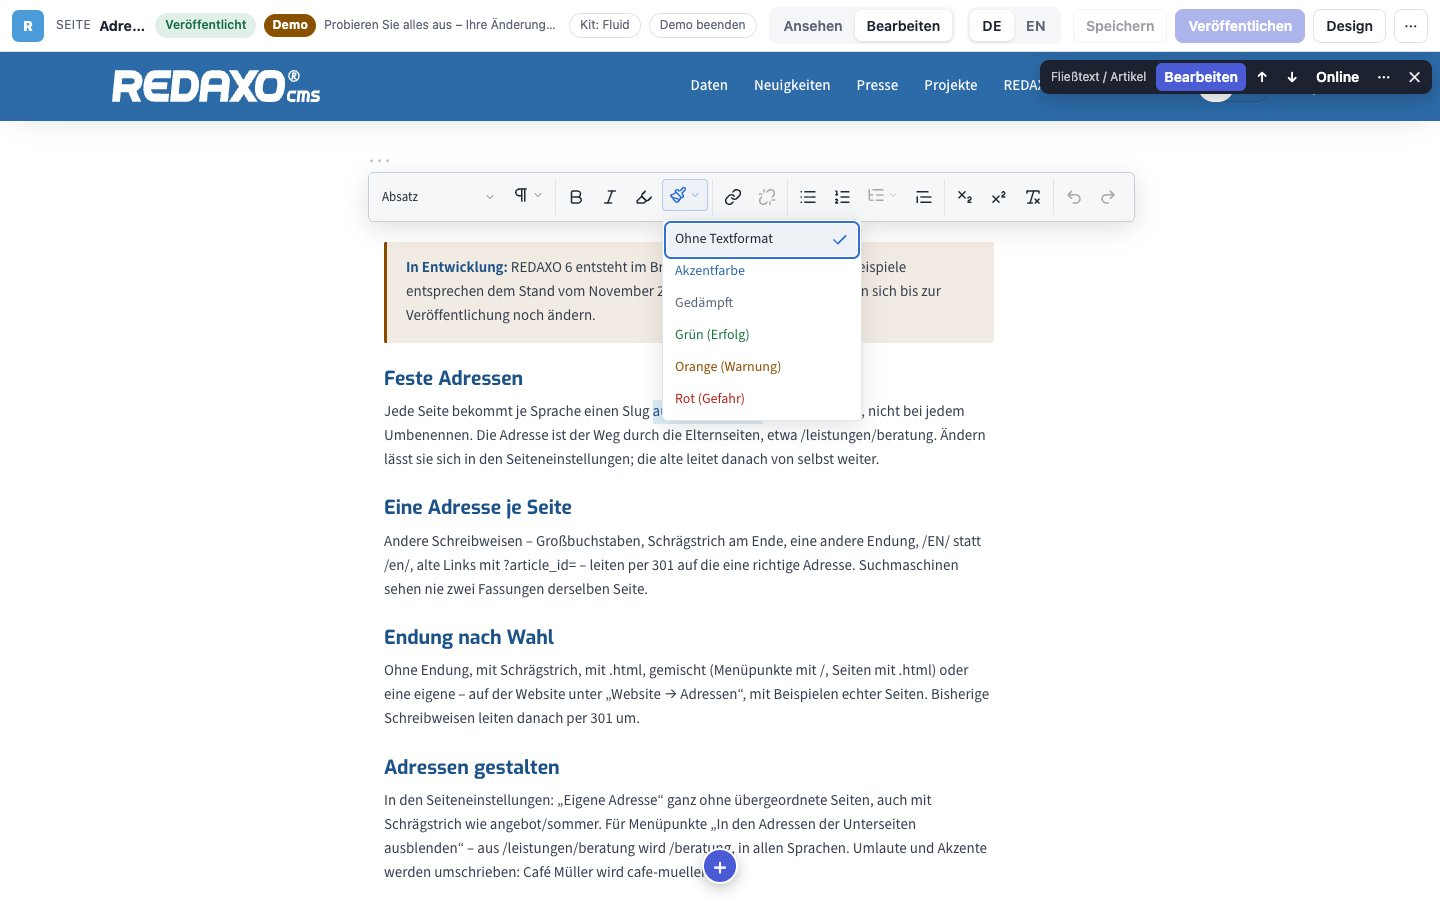
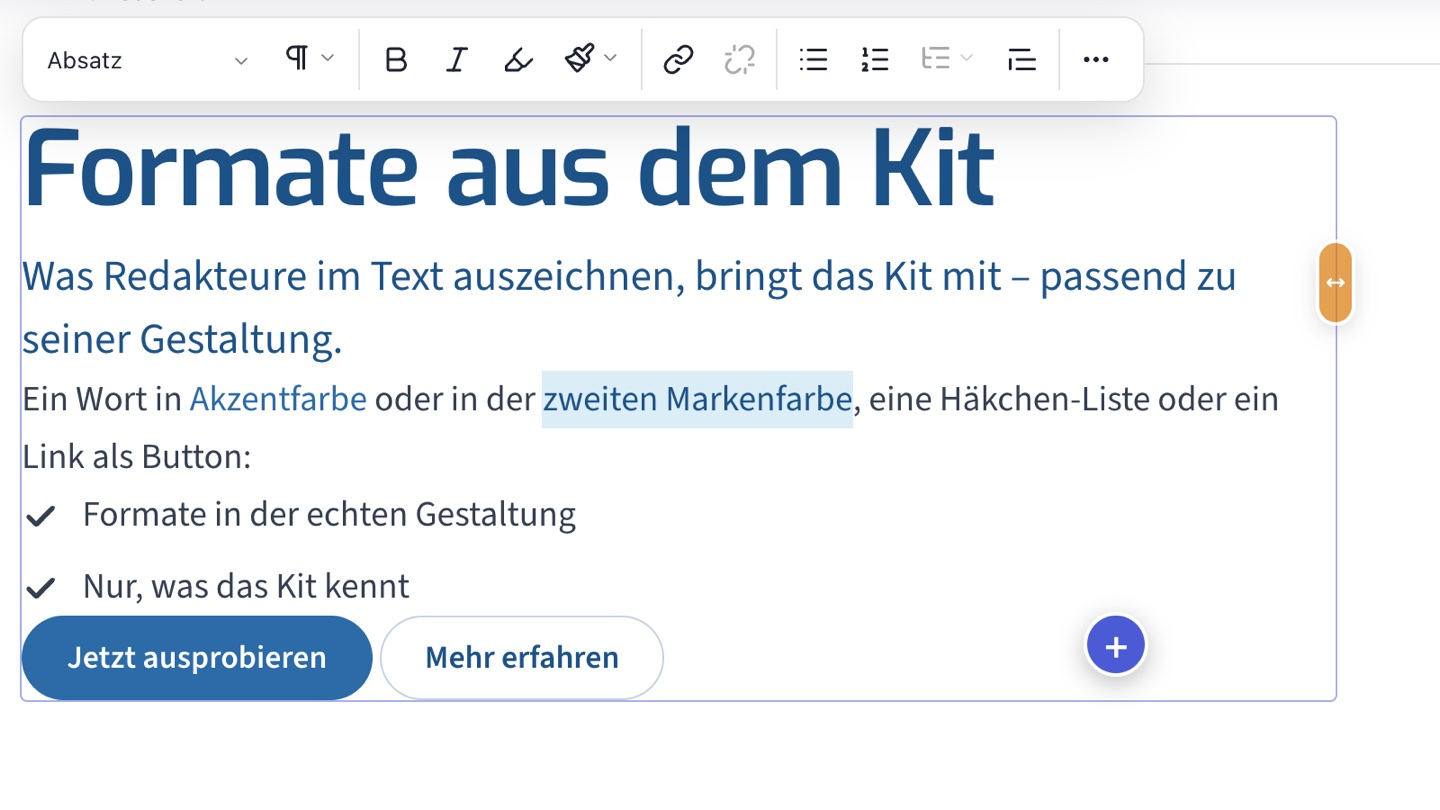
docs: README and demo post with current pictures of the text formats

diff --git a/kits/fluid/demo-redaxo6.php b/kits/fluid/demo-redaxo6.php
@@ -387,7 +387,21 @@ $code = [
             }
         }
         CODE,
+    'kitText' => <<<'CODE'
+        return [
+            'label' => 'Fluid (breakpointlos)',
+            // Textformate: Klasse => Bezeichnung (optional, sonst die des Eltern-Kits)
+            'text' => [
+                'paragraphs' => ['t-lead' => 'Hervorgehoben', 't-note' => 'Hinweis-Box'],
+                'headings' => ['h-display' => 'Groß (Blickfang)'],      // jede Überschrift
+                'colors' => ['c-accent' => 'Akzentfarbe', 'c-secondary' => 'Zweite Markenfarbe'],
+                'lists' => ['check' => ['label' => 'Häkchen-Liste', 'list' => 'ul']],
+                'links' => ['btn btn--primary' => 'Button'],
+            ],
+        ];
+        CODE,
     'tiptapProfile' => <<<'CODE'
+        use Klxm\Fluid\TextFormats;
         use Klxm\Tiptap\AsProfile;
         use Klxm\Tiptap\ProfileDefinition;
 
@@ -396,19 +410,15 @@ $code = [
         {
             public function config(): array
             {
-                return [
+                // Absatz-, Überschriften-, Farb-, Listen- und Linkformate aus dem Kit
+                return TextFormats::active()->profileConfig() + [
                     'toolbar' => [
                         ['heading', 'blockStyle'],
                         ['bold', 'italic', 'highlight', 'inlineStyle'],
                         ['link', 'unlink'],
                         ['bulletList', 'orderedList', 'listStyle', 'blockquote'],
                     ],
-                    'blockStyles' => [
-                        ['label' => 'Hervorgehoben', 'class' => 't-lead', 'element' => 'p'],
-                        ['label' => 'Hinweis-Box', 'class' => 't-note', 'element' => 'p'],
-                    ],
-                    'inlineStyles' => [['label' => 'Akzentfarbe', 'class' => 'c-accent']],
-                    'listStyles' => [['label' => 'Häkchen-Liste', 'class' => 'check', 'list' => 'ul']],
+                    'headings' => [2, 3, 4],
                 ];
             }
         }
@@ -2016,14 +2026,23 @@ vollständig: Module, Templates, Schema'],
                 ['type' => 'richtext', 'data' => ['variant' => 'article', 'eyebrow' => '', 'title' => '', 'intro' => '', 'measure' => 'normal', 'meta' => '', 'dropcap' => false, 'toc' => false, 'reveal' => 'off', 'scrollspy' => 'off',
                     'text' => '<p class="t-lead">Ein Editor für alles: fluid schreibt Texte jetzt mit <strong>TipTap</strong> – dem Editor, den REDAXO 6 auch im Backend, in YForm und in Modulen nutzt.</p><p>Bisher hatte fluid eine eigene Formatierungsleiste. Sie war gut, aber eben nur in fluid. Jetzt arbeitet überall derselbe Editor: wer ihn im Backend kennt, kennt ihn auf der Website – und umgekehrt. Alles, was TipTap kann, kann fluid ab sofort auch.</p>']],
                 ['type' => 'media_text', 'data' => ['variant' => 'right', 'eyebrow' => 'Direkt auf der Seite', 'title' => 'Schreiben, wo der Text steht',
-                    'text' => '<p>Ein Klick in einen Text, und TipTap startet genau an dieser Stelle. Die Werkzeugleiste schwebt darüber, Hinweis-Box, Dachzeile oder Akzentfarbe erscheinen sofort in der echten Gestaltung der Website – so, wie Besucher sie sehen.</p>',
+                    'text' => '<p>Ein Klick in einen Text, und TipTap startet genau an dieser Stelle. Die Werkzeugleiste schwebt darüber – schlank in einer Zeile, seltene Werkzeuge hinter „⋯“. Hinweis-Box, Dachzeile oder Akzentfarbe erscheinen sofort in der echten Gestaltung der Website – so, wie Besucher sie sehen.</p>',
                     'list' => "Schreibmarke genau dort, wo man klickt\nFormate in der echten Gestaltung des Kits\nSeiten und Dateien verlinken mit der Auswahl von fluid",
                     'image' => 'fluid-tiptap-seite.jpg', 'ratio' => '16:9', 'split' => 'media']],
+                ['type' => 'media_text', 'tunes' => ['background' => 'muted'], 'data' => ['variant' => 'left', 'eyebrow' => 'Formate aus dem Kit', 'title' => 'Auszeichnen, was das Kit gestaltet',
+                    'text' => '<p>Welche Formate es gibt, bringt das Kit mit: Absatz- und Überschriftenstile, Farben, Listen und Links als Button – jeweils in seiner echten Gestaltung. Was das Kit nicht kennt, verwirft der Editor, auch beim Einfügen aus Word oder von einer anderen Website.</p>',
+                    'list' => "Kit „fluid“: Hinweis-Boxen, Dachzeile, große Überschrift, Zweitfarbe, Buttons\nWechselt das Kit, wechseln die Formate mit\nKeine style-Attribute, nur Klassen des Kits",
+                    'image' => 'fluid-tiptap-formate.jpg', 'ratio' => '16:9', 'split' => 'media']],
+                ['type' => 'media_text', 'data' => ['variant' => 'right', 'eyebrow' => 'Für Kit-Entwickler', 'title' => 'Jedes Kit mit eigenen Formaten',
+                    'text' => '<p>Ein Kit legt seine Formate als kurze Liste in seine <code>kit.php</code> – Klasse und Bezeichnung, mehr nicht. Es erbt die des Eltern-Kits und ergänzt oder streicht einzelne. Das Kit „NativeCSS“ bringt so seine Listen mit Punkten, Strichen, Trennlinien und Schritten mit, dazu die eigenen Buttons.</p>',
+                    'list' => '', 'image' => 'fluid-tiptap-native.jpg', 'ratio' => '16:9', 'split' => 'media']],
+                ['type' => 'richtext', 'tunes' => ['background' => 'tint'], 'data' => ['variant' => 'standard', 'eyebrow' => '', 'title' => '', 'intro' => '', 'measure' => 'normal',
+                    'text' => '<h2 class="h-display">Probieren Sie es aus</h2><p class="t-lead">Dieser Text nutzt die Formate des Kits – in der Demo einfach hineinklicken und ändern.</p><p>Ein Wort in <span class="c-accent">Akzentfarbe</span> oder in der <span class="c-secondary">zweiten Markenfarbe</span>, eine Häkchen-Liste oder ein Link als Button:</p><ul class="check"><li>Formate im Menü „Blockformat“ und „Textformat“</li><li>Listenformat über das Listen-Menü</li><li>Linkformat in der Leiste unter dem Link</li></ul><p class="t-tip">Tipp: Wechseln Sie oben in der Demo das Kit – die Formate wechseln mit.</p><p><a class="btn btn--primary" href="https://github.com/KLXM/fluid">fluid auf GitHub</a> <a class="btn btn--secondary" href="https://github.com/KLXM/tiptap">TipTap auf GitHub</a></p>']],
                 ['type' => 'features', 'tunes' => ['background' => 'muted'], 'data' => ['variant' => 'cards', 'eyebrow' => 'Warum das sinnvoll ist', 'title' => 'Sechs gute Gründe', 'intro' => '', 'size' => 'm',
                     'items' => [
                         ['icon' => 'pencil-simple', 'title' => 'Ein Editor für alles', 'text' => 'Backend, YForm, Module und Website: überall derselbe TipTap. Einmal lernen, überall schreiben.', 'link_label' => '', 'link' => ''],
                         ['icon' => 'code', 'title' => 'Profile als PHP-Klassen', 'text' => 'Das Profil von fluid ist eine Klasse. Ein Projekt überschreibt es mit einer eigenen – versioniert im Git, ohne Abgleich der Datenbank zwischen Stage und Live.', 'link_label' => '', 'link' => ''],
-                        ['icon' => 'shield-check', 'title' => 'Sauberes HTML', 'text' => 'Formate sind CSS-Klassen, nie style-Attribute – die Content-Security-Policy bleibt streng. Der Server bereinigt jede Eingabe nach dem Profil.', 'link_label' => '', 'link' => ''],
+                        ['icon' => 'shield-check', 'title' => 'Sauberes HTML', 'text' => 'Formate sind CSS-Klassen, nie style-Attribute – die Content-Security-Policy bleibt streng. Der Editor kennt nur die Formate des Kits, der Server bereinigt jede Eingabe.', 'link_label' => '', 'link' => ''],
                         ['icon' => 'check-circle', 'title' => 'Nichts geht verloren', 'text' => 'Bestehende Texte bleiben, wie sie sind: Absatzstile, Farben, Häkchen-Listen, Anker an Überschriften und Links auf Seiten.', 'link_label' => '', 'link' => ''],
                         ['icon' => 'puzzle-piece', 'title' => 'Erweiterbar', 'text' => 'Plugins, eigene Link-Formate, eigene Seiten- und Medienauswahl – fluid nutzt genau die Schnittstellen, die jedes AddOn nutzen kann.', 'link_label' => '', 'link' => ''],
                         ['icon' => 'users-three', 'title' => 'Gut für alle', 'text' => 'Was fluid brauchte, steckt jetzt in TipTap selbst: Bearbeiten direkt auf der Seite, Shadow DOM, Auswahl auf der Website. Davon profitiert jedes REDAXO-6-Projekt.', 'link_label' => '', 'link' => ''],
@@ -2032,8 +2051,9 @@ vollständig: Module, Templates, Schema'],
                 ['type' => 'media_text', 'data' => ['variant' => 'left', 'eyebrow' => 'In der Seitenleiste', 'title' => 'Derselbe Editor für längere Texte',
                     'text' => '<p>Alle Felder eines Elements stehen in der Seitenleiste – formatierter Text mit der vollen Leiste von TipTap, samt Quelltext und Vollbild. Markdown einfügen wird zu Formatierung, Rechtsklick öffnet Menüs für Listen und Links.</p>',
                     'list' => '', 'image' => 'fluid-tiptap-seitenleiste.jpg', 'ratio' => '16:9', 'split' => 'media']],
-                ['type' => 'code', 'data' => ['eyebrow' => 'Für Entwickler', 'title' => 'Das Profil von fluid – eine Klasse', 'intro' => 'Eine Klasse mit #[AsProfile] im Projekt mit demselben Namen geht vor: so passt jede Website die Formate an.', 'note' => 'Mehr in der Entwickler-Referenz von fluid, Abschnitt „Text-Editor (TipTap)“.',
+                ['type' => 'code', 'data' => ['eyebrow' => 'Für Entwickler', 'title' => 'Formate im Kit, Profil als Klasse', 'intro' => 'Die Formate stehen als kurze Liste in der kit.php des Kits. Das Profil ist eine Klasse – eine gleichnamige im Projekt geht vor.', 'note' => 'Mehr in der Entwickler-Referenz von fluid, Abschnitte „Textformate im Kit“ und „Text-Editor (TipTap)“.',
                     'items' => [
+                        $c('kitText', 'kits/fluid/kit.php', 'php'),
                         $c('tiptapProfile', 'src/Tiptap/FluidProfile.php', 'php'),
                     ]]],
                 $cta,

diff --git a/kits/fluid/demo-redaxo6.en.php b/kits/fluid/demo-redaxo6.en.php
@@ -977,7 +977,7 @@ Shift everything by a few seconds',
     '<p class="t-lead">Ein Editor für alles: fluid schreibt Texte jetzt mit <strong>TipTap</strong> – dem Editor, den REDAXO 6 auch im Backend, in YForm und in Modulen nutzt.</p><p>Bisher hatte fluid eine eigene Formatierungsleiste. Sie war gut, aber eben nur in fluid. Jetzt arbeitet überall derselbe Editor: wer ihn im Backend kennt, kennt ihn auf der Website – und umgekehrt. Alles, was TipTap kann, kann fluid ab sofort auch.</p>' => '<p class="t-lead">One editor for everything: fluid now writes text with <strong>TipTap</strong> – the editor REDAXO 6 also uses in the backend, in YForm and in modules.</p><p>So far fluid had its own formatting bar. It was good, but only in fluid. Now the same editor works everywhere: whoever knows it in the backend knows it on the website – and the other way round. Everything TipTap can do, fluid can do as of now.</p>',
     'Direkt auf der Seite' => 'Right on the page',
     'Schreiben, wo der Text steht' => 'Write where the text is',
-    '<p>Ein Klick in einen Text, und TipTap startet genau an dieser Stelle. Die Werkzeugleiste schwebt darüber, Hinweis-Box, Dachzeile oder Akzentfarbe erscheinen sofort in der echten Gestaltung der Website – so, wie Besucher sie sehen.</p>' => '<p>One click into a text and TipTap starts right at that spot. The toolbar floats above it, note box, kicker or accent color appear immediately in the real design of the website – the way visitors see them.</p>',
+    '<p>Ein Klick in einen Text, und TipTap startet genau an dieser Stelle. Die Werkzeugleiste schwebt darüber – schlank in einer Zeile, seltene Werkzeuge hinter „⋯“. Hinweis-Box, Dachzeile oder Akzentfarbe erscheinen sofort in der echten Gestaltung der Website – so, wie Besucher sie sehen.</p>' => '<p>One click into a text and TipTap starts right at that spot. The toolbar floats above it – slim on one line, rarely used tools behind “⋯”. Note box, kicker or accent color appear immediately in the real design of the website – the way visitors see them.</p>',
     'Schreibmarke genau dort, wo man klickt' => 'Caret exactly where you click',
     'Formate in der echten Gestaltung des Kits' => 'Formats in the real design of the kit',
     'Seiten und Dateien verlinken mit der Auswahl von fluid' => 'Link pages and files with fluid’s picker',
@@ -988,7 +988,7 @@ Shift everything by a few seconds',
     'Profile als PHP-Klassen' => 'Profiles as PHP classes',
     'Das Profil von fluid ist eine Klasse. Ein Projekt überschreibt es mit einer eigenen – versioniert im Git, ohne Abgleich der Datenbank zwischen Stage und Live.' => 'fluid’s profile is a class. A project overrides it with its own – versioned in Git, without syncing the database between stage and live.',
     'Sauberes HTML' => 'Clean HTML',
-    'Formate sind CSS-Klassen, nie style-Attribute – die Content-Security-Policy bleibt streng. Der Server bereinigt jede Eingabe nach dem Profil.' => 'Formats are CSS classes, never style attributes – the content security policy stays strict. The server cleans every input according to the profile.',
+    'Formate sind CSS-Klassen, nie style-Attribute – die Content-Security-Policy bleibt streng. Der Editor kennt nur die Formate des Kits, der Server bereinigt jede Eingabe.' => 'Formats are CSS classes, never style attributes – the content security policy stays strict. The editor only knows the kit’s formats, the server cleans every input.',
     'Nichts geht verloren' => 'Nothing gets lost',
     'Bestehende Texte bleiben, wie sie sind: Absatzstile, Farben, Häkchen-Listen, Anker an Überschriften und Links auf Seiten.' => 'Existing texts stay as they are: paragraph styles, colors, checklists, heading anchors and links to pages.',
     'Erweiterbar' => 'Extensible',
@@ -998,7 +998,17 @@ Shift everything by a few seconds',
     'In der Seitenleiste' => 'In the sidebar',
     'Derselbe Editor für längere Texte' => 'The same editor for longer texts',
     '<p>Alle Felder eines Elements stehen in der Seitenleiste – formatierter Text mit der vollen Leiste von TipTap, samt Quelltext und Vollbild. Markdown einfügen wird zu Formatierung, Rechtsklick öffnet Menüs für Listen und Links.</p>' => '<p>All fields of an element are in the sidebar – formatted text with TipTap’s full toolbar, including source view and full screen. Pasting Markdown turns into formatting, right-click opens menus for lists and links.</p>',
-    'Das Profil von fluid – eine Klasse' => 'fluid’s profile – a class',
-    'Eine Klasse mit #[AsProfile] im Projekt mit demselben Namen geht vor: so passt jede Website die Formate an.' => 'A class with #[AsProfile] and the same name in the project wins: that is how every website adapts the formats.',
-    'Mehr in der Entwickler-Referenz von fluid, Abschnitt „Text-Editor (TipTap)“.' => 'More in fluid’s developer reference, section “Text-Editor (TipTap)”.',
+    'Formate im Kit, Profil als Klasse' => 'Formats in the kit, profile as a class',
+    'Die Formate stehen als kurze Liste in der kit.php des Kits. Das Profil ist eine Klasse – eine gleichnamige im Projekt geht vor.' => 'The formats are a short list in the kit’s kit.php. The profile is a class – one with the same name in the project wins.',
+    'Mehr in der Entwickler-Referenz von fluid, Abschnitte „Textformate im Kit“ und „Text-Editor (TipTap)“.' => 'More in fluid’s developer reference, sections “Textformate im Kit” and “Text-Editor (TipTap)”.',
+    'Formate aus dem Kit' => 'Formats from the kit',
+    'Auszeichnen, was das Kit gestaltet' => 'Mark up what the kit designs',
+    '<p>Welche Formate es gibt, bringt das Kit mit: Absatz- und Überschriftenstile, Farben, Listen und Links als Button – jeweils in seiner echten Gestaltung. Was das Kit nicht kennt, verwirft der Editor, auch beim Einfügen aus Word oder von einer anderen Website.</p>' => '<p>Which formats exist comes with the kit: paragraph and heading styles, colors, lists and links as buttons – each in its real design. Whatever the kit doesn’t know, the editor drops, also when pasting from Word or another website.</p>',
+    'Kit „fluid“: Hinweis-Boxen, Dachzeile, große Überschrift, Zweitfarbe, Buttons' => 'Kit “fluid”: note boxes, kicker, large heading, second color, buttons',
+    'Wechselt das Kit, wechseln die Formate mit' => 'Switch the kit and the formats switch too',
+    'Keine style-Attribute, nur Klassen des Kits' => 'No style attributes, only the kit’s classes',
+    'Für Kit-Entwickler' => 'For kit developers',
+    'Jedes Kit mit eigenen Formaten' => 'Every kit with its own formats',
+    '<p>Ein Kit legt seine Formate als kurze Liste in seine <code>kit.php</code> – Klasse und Bezeichnung, mehr nicht. Es erbt die des Eltern-Kits und ergänzt oder streicht einzelne. Das Kit „NativeCSS“ bringt so seine Listen mit Punkten, Strichen, Trennlinien und Schritten mit, dazu die eigenen Buttons.</p>' => '<p>A kit puts its formats as a short list into its <code>kit.php</code> – class and label, nothing more. It inherits those of its parent kit and adds or removes single ones. That is how the kit “NativeCSS” brings its lists with dots, dashes, dividers and steps, plus its own buttons.</p>',
+    '<h2 class="h-display">Probieren Sie es aus</h2><p class="t-lead">Dieser Text nutzt die Formate des Kits – in der Demo einfach hineinklicken und ändern.</p><p>Ein Wort in <span class="c-accent">Akzentfarbe</span> oder in der <span class="c-secondary">zweiten Markenfarbe</span>, eine Häkchen-Liste oder ein Link als Button:</p><ul class="check"><li>Formate im Menü „Blockformat“ und „Textformat“</li><li>Listenformat über das Listen-Menü</li><li>Linkformat in der Leiste unter dem Link</li></ul><p class="t-tip">Tipp: Wechseln Sie oben in der Demo das Kit – die Formate wechseln mit.</p><p><a class="btn btn--primary" href="https://github.com/KLXM/fluid">fluid auf GitHub</a> <a class="btn btn--secondary" href="https://github.com/KLXM/tiptap">TipTap auf GitHub</a></p>' => '<h2 class="h-display">Try it out</h2><p class="t-lead">This text uses the kit’s formats – in the demo, just click into it and change it.</p><p>A word in <span class="c-accent">accent color</span> or in the <span class="c-secondary">second brand color</span>, a checklist or a link as a button:</p><ul class="check"><li>Formats in the menus “Blockformat” and “Textformat”</li><li>List format via the list menu</li><li>Link format in the bar below the link</li></ul><p class="t-tip">Tip: switch the kit at the top of the demo – the formats switch too.</p><p><a class="btn btn--primary" href="https://github.com/KLXM/fluid">fluid on GitHub</a> <a class="btn btn--secondary" href="https://github.com/KLXM/tiptap">TipTap on GitHub</a></p>',
 ];

diff --git a/README.md b/README.md
@@ -52,7 +52,10 @@ fluid läuft auch ohne.
 **Für Redakteure** – alles auf der Website, über eine Leiste oben:
 
 - **Texte direkt auf der Seite** ändern – formatierter Text mit [TipTap](https://github.com/KLXM/tiptap) (kommt mit fluid,
-  eigenes Profil `tiptap.fluid` als Klasse); alle Felder eines Blocks in der Seitenleiste
+  eigenes Profil `tiptap.fluid` als Klasse): Klick in den Text, eine schlanke Leiste schwebt darüber, seltene Werkzeuge
+  hinter „⋯“; alle Felder eines Blocks in der Seitenleiste
+- **Textformate aus dem Kit:** Absatz- und Überschriftenstile, Farben, Listen und Links als Button – genau die, die das
+  Kit gestaltet, in seiner echten Optik. Alles andere verwirft der Editor, auch beim Einfügen aus Word
 - **Blöcke** einfügen, verschieben (ziehen oder ↑ ↓), verdoppeln, kopieren, online/offline – 30 Blöcke im Kit,
   vom Einstieg über Text + Bild, Zahlen, Fragen & Antworten, Preise und Karten bis zu Video & Audio, Vorher/Nachher und
   **Interaktives Bild** (Markierungen als Punkt, Kreis, Rechteck oder Fläche – im Bild setzen, ziehen, mit Pfeiltasten schieben)
@@ -112,7 +115,12 @@ fluid läuft auch ohne.
 **Für Besucher:** schnelle, barrierearme Seiten, Blättern, Filtern und Suchen ohne Seitenwechsel, schöne Adressen, Sitemap, strukturierte Daten, keine Cookies für Karten.
 
 **Für Entwickler:** Blöcke sind kleine PHP-Klassen mit Feld-Attributen (wie Module des Cores) und einer Ausgabe, Extension Points an allen wichtigen
-Stellen, YForm-Tabellen und -Formulare als Klassen – mehr in der [Entwickler-Referenz](docs/entwickler.md).
+Stellen, YForm-Tabellen und -Formulare als Klassen, Textformate als kurze Liste in der `kit.php` des Kits
+([Textformate im Kit](docs/entwickler.md#textformate-im-kit)) – mehr in der [Entwickler-Referenz](docs/entwickler.md).
+
+| Textformate im Kit „fluid“ | Listen und Buttons im Kit „NativeCSS“ |
+|---|---|
+| ![Blockformate mit großer Überschrift, Hinweis-Boxen und Dachzeile direkt auf der Seite](docs/bilder/text-formate.jpg) | ![Listenformate Punkte, Striche und Trennlinien von NativeCSS](docs/bilder/text-native.jpg) |
 
 | Formular in Schritten | Blöcke in einem YForm-Datensatz |
 |---|---|

diff --git a/CHANGELOG.md b/CHANGELOG.md
@@ -9,6 +9,8 @@
   Kit fluid neu: Zweite Markenfarbe, Überschrift „Groß“, Links als Button; Kit NativeCSS: Listen Punkte/Striche/
   Trennlinien/Schritte, Buttons von NativeCSS, Farbverlauf für Überschriften. Nummerierte Listen behalten Zählart und
   Start (`ol type/start`). `RichText::P_CLASSES` und `RichText::COLORS` entfallen.
+- README und Demo-Beitrag „TipTap meets fluid“ mit neuen Bildern: einzeilige Leiste, Formate aus dem Kit (fluid und
+  NativeCSS), Textblock mit allen Formaten zum Ausprobieren. Fix: Link-Leiste blieb sichtbar (TipTap 1.0.0-beta.5).
 
 ## 1.0.0-beta.13 – 2026-11-27
 
